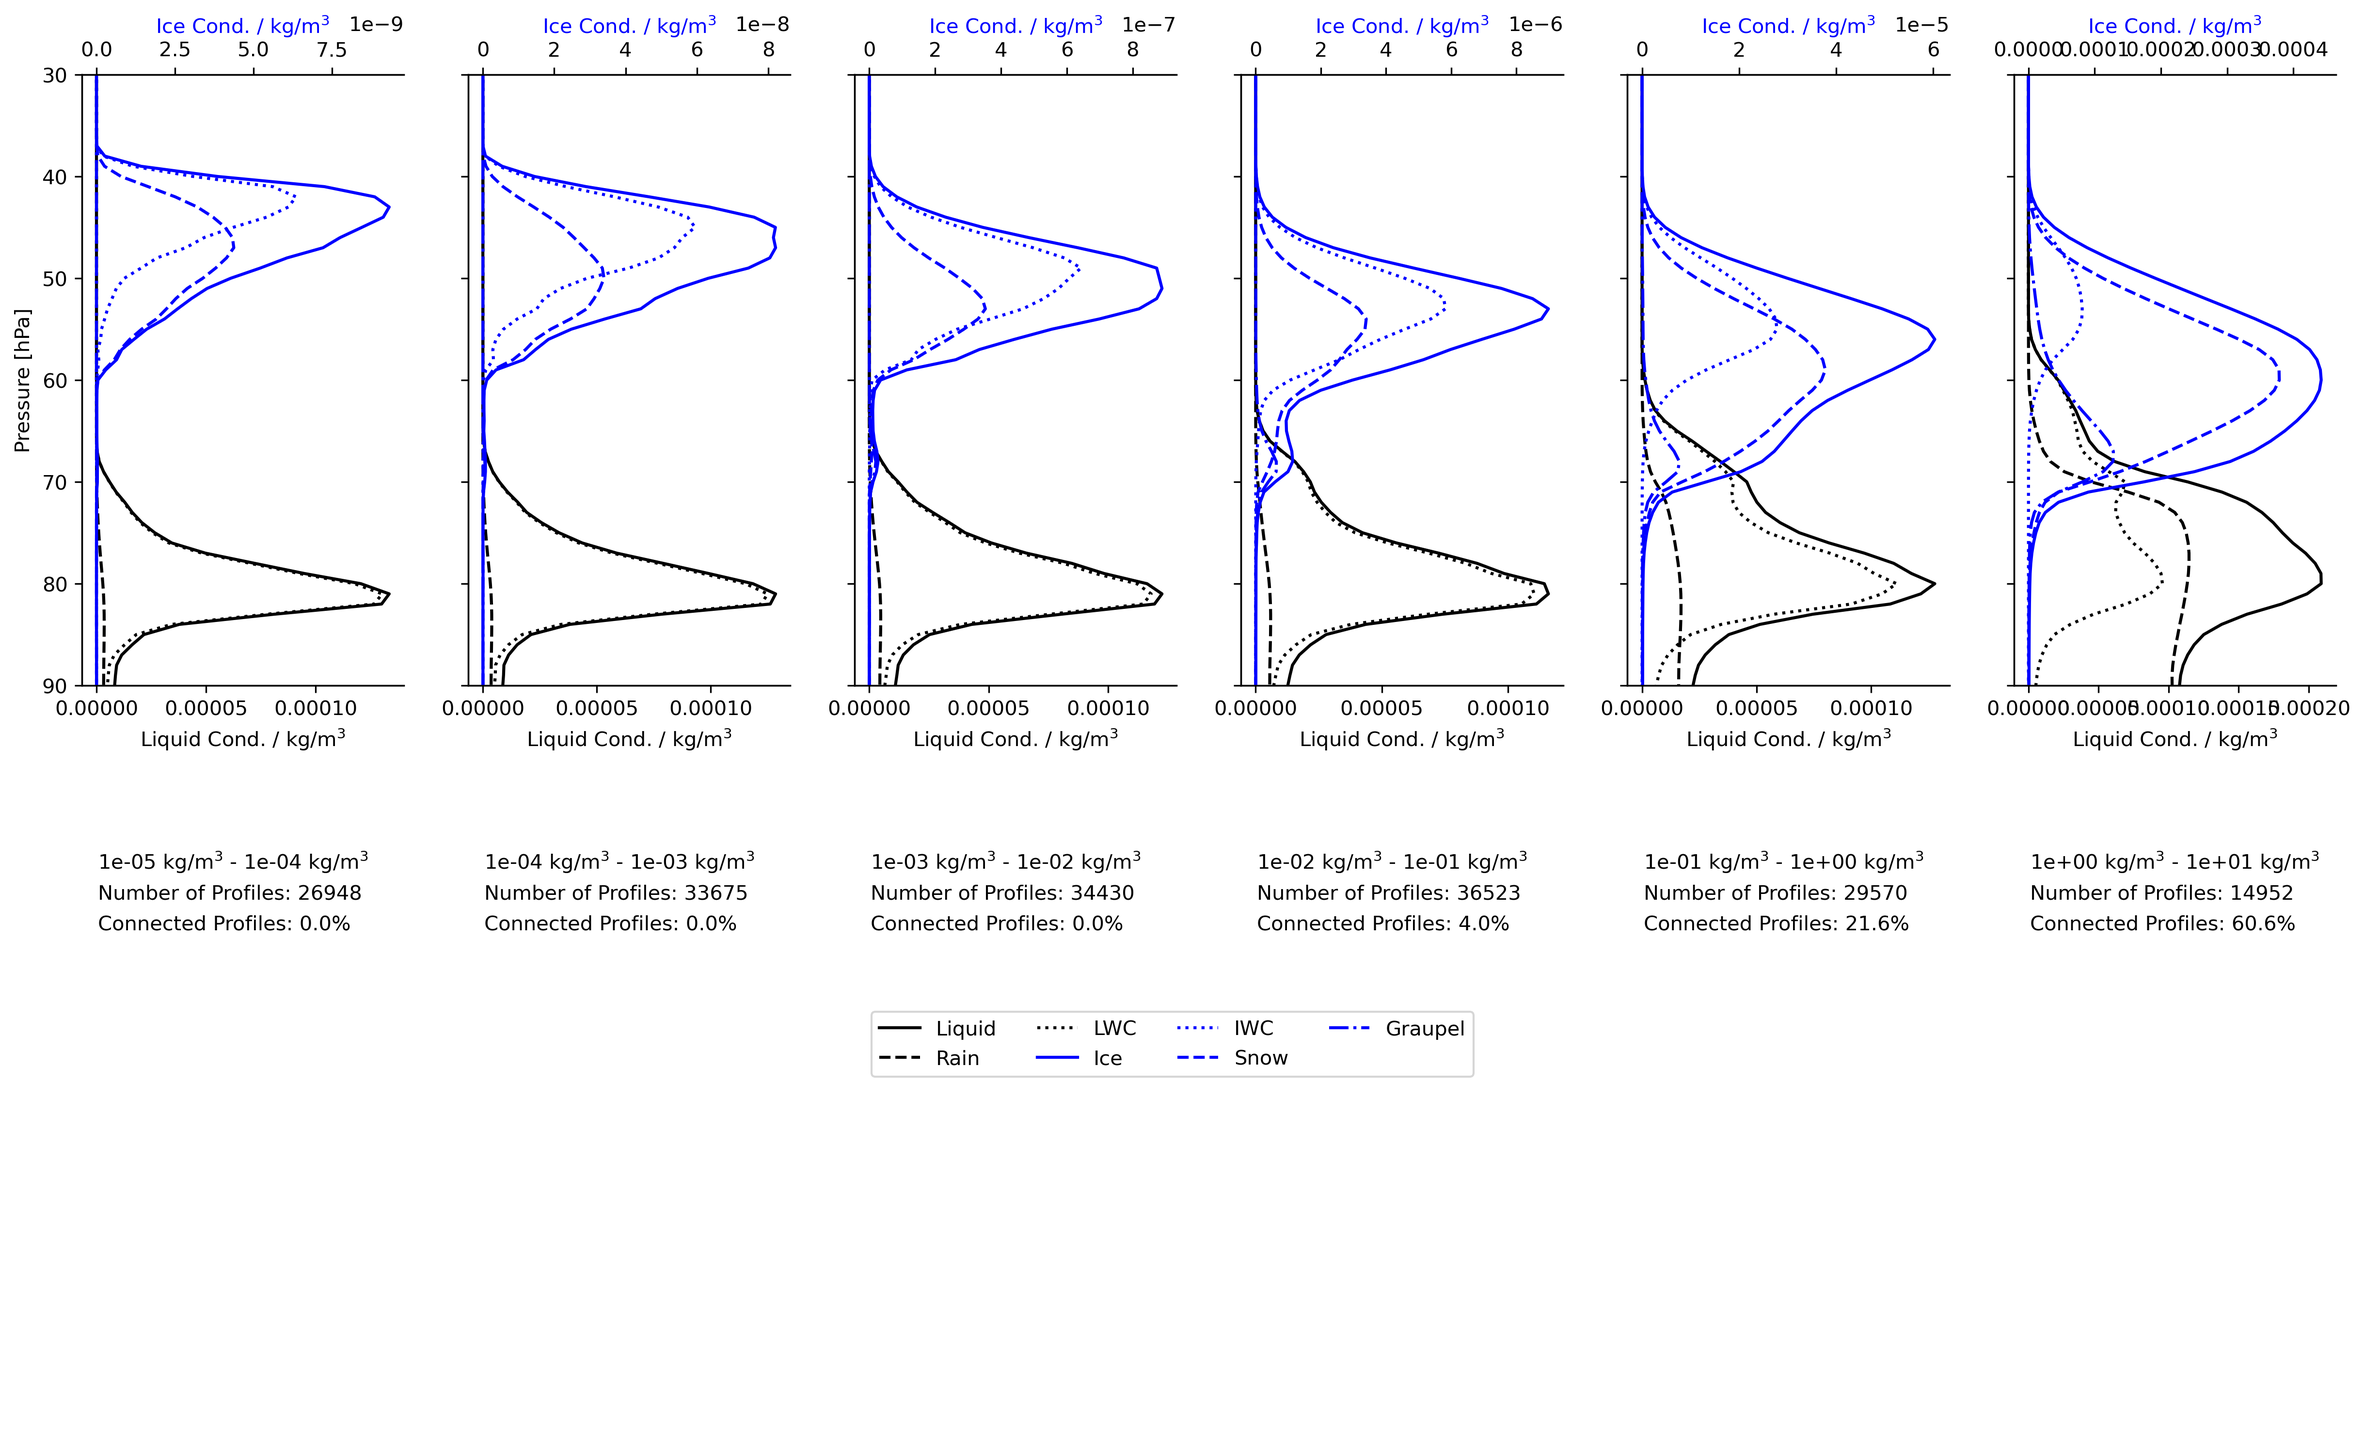
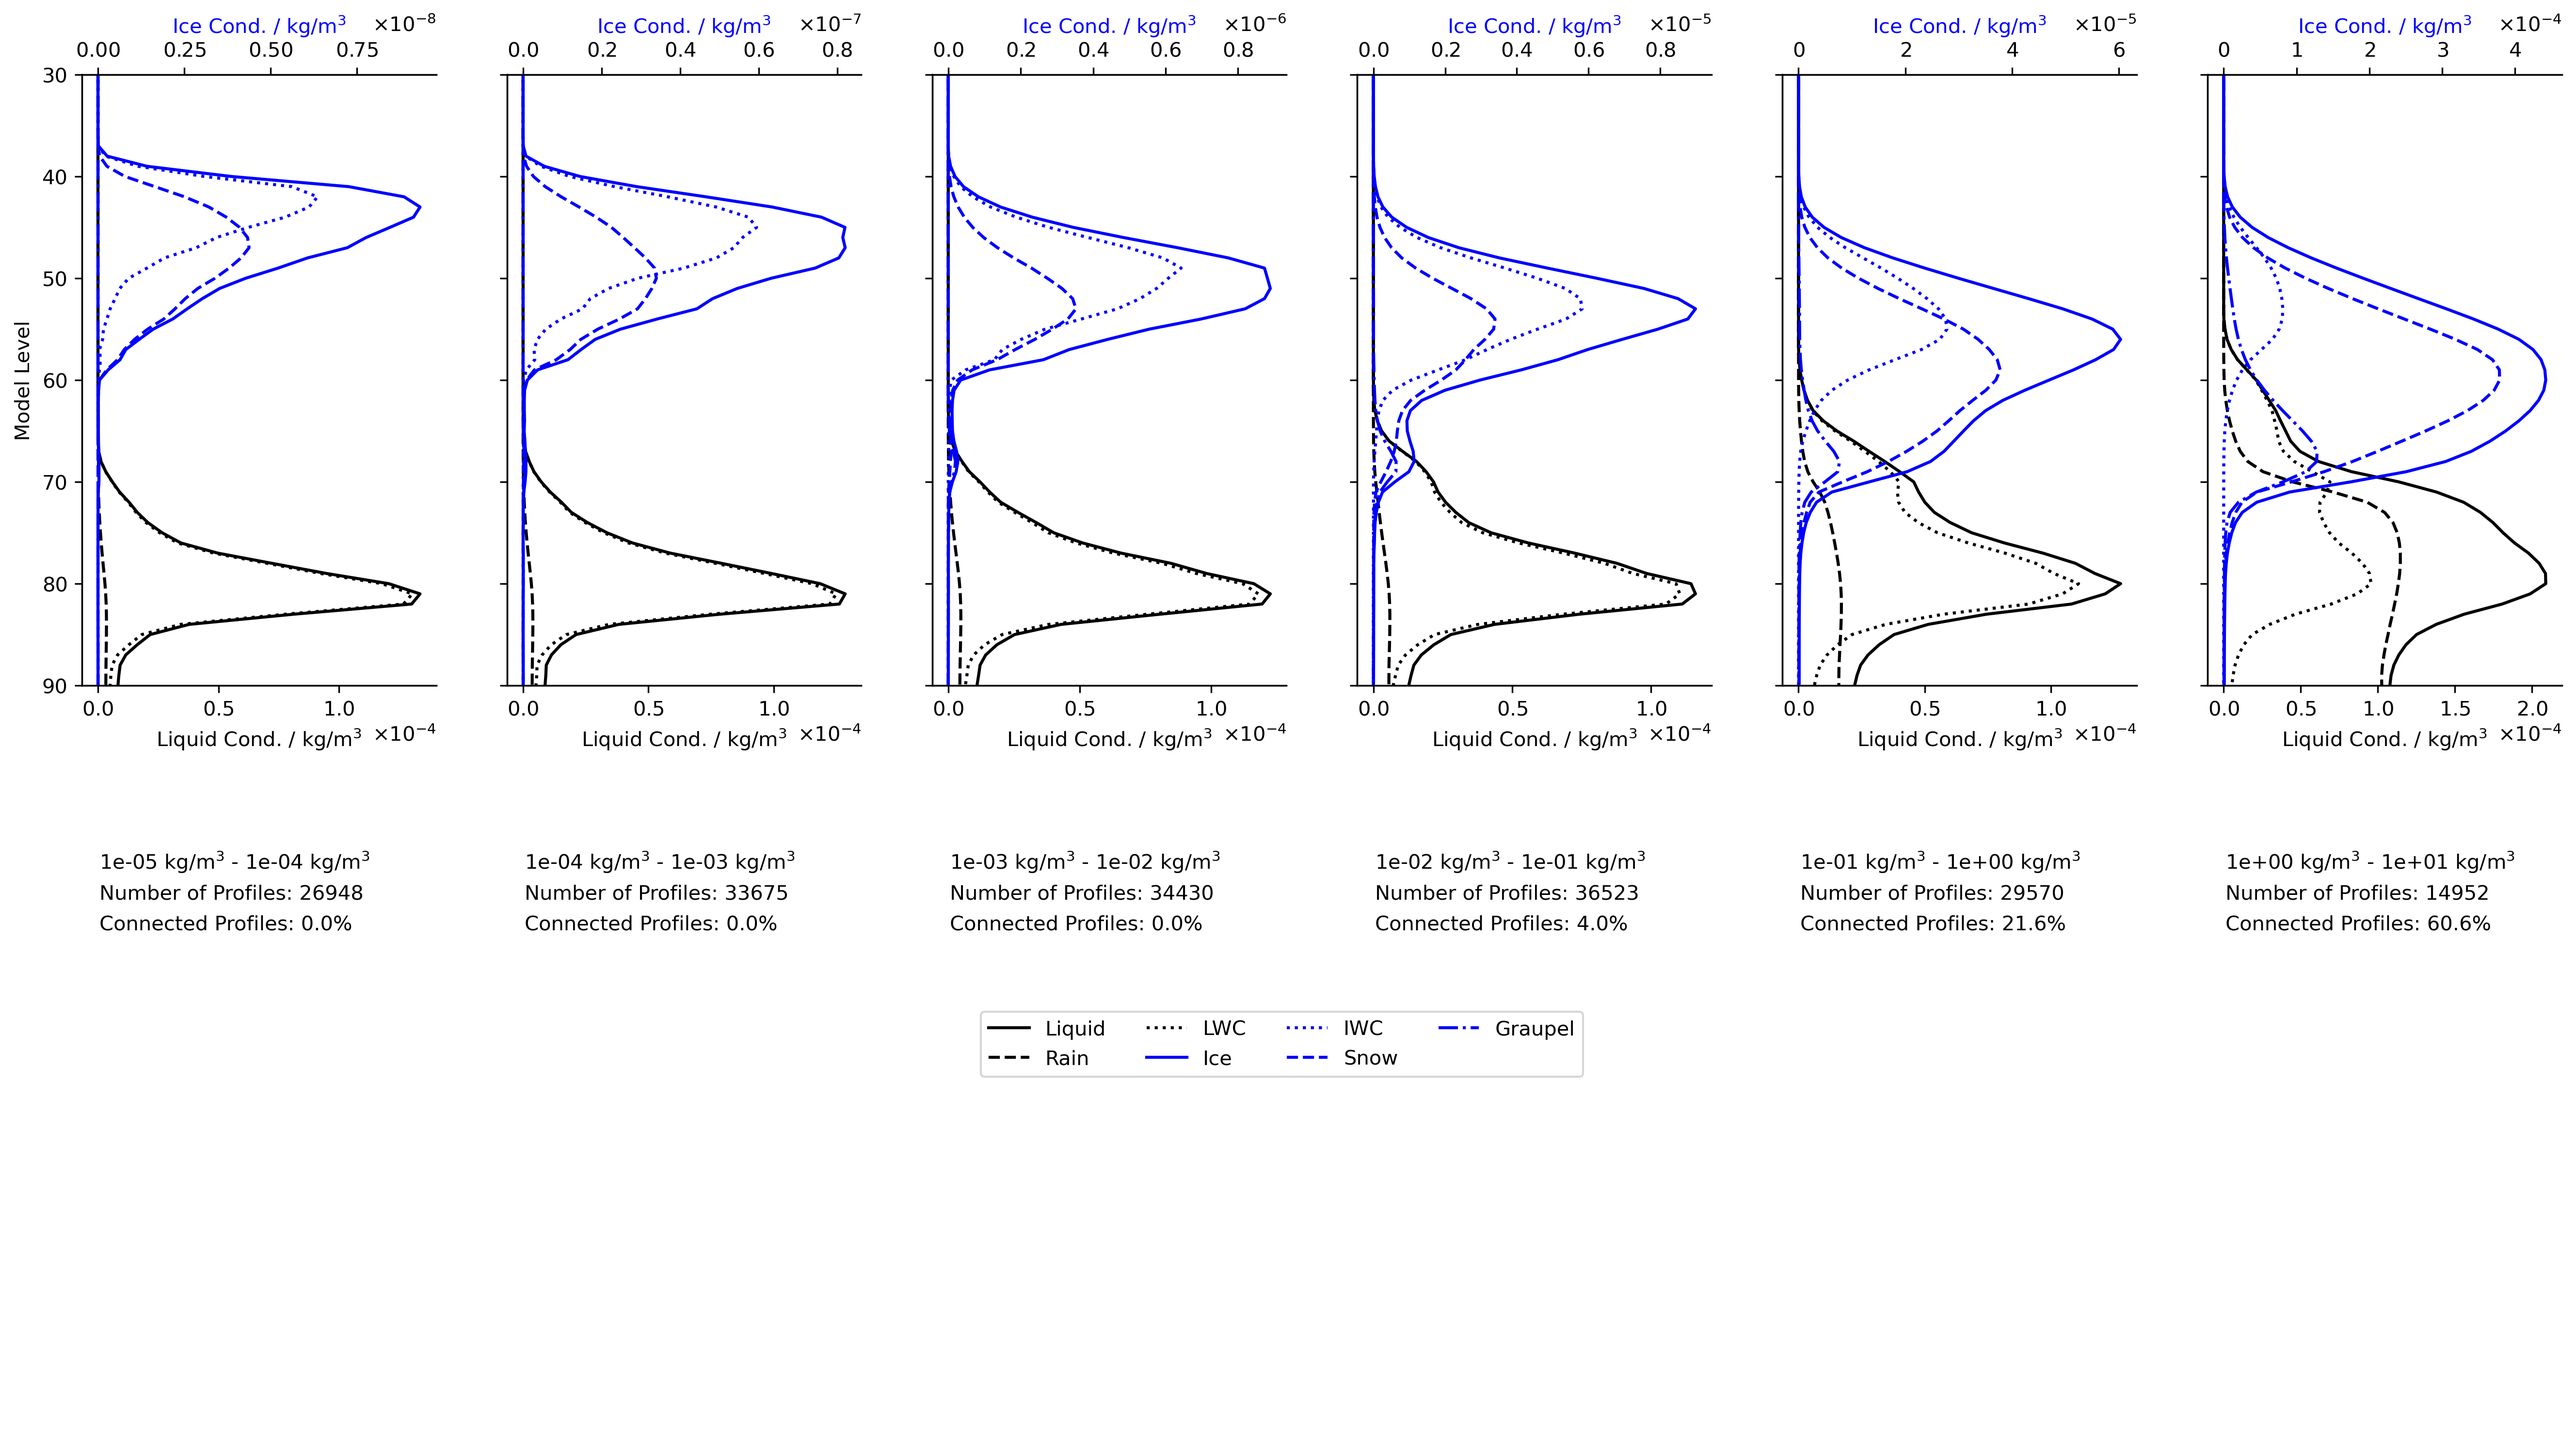
figures updated

diff --git a/src/plot_functions.py b/src/plot_functions.py
@@ -621,13 +621,16 @@ def plot_connectedness(sample, mask, liq_cld_cond, ice_cld_cond, mode="icon"):
     - axes: The matplotlib axes object.
     """
 
-    fig, axes = plt.subplots(2, 6, figsize=(20, 12), sharey="row")
+    fig, axes = plt.subplots(2, 6, figsize=(22, 12), sharey="row")
     iwp_bins = np.logspace(-5, 1, 7)
+    formatter = ScalarFormatter(useMathText=True)
+    formatter.set_powerlimits((-1, 2))
 
     for i in range(6):
         ax2 = plot_condensate(
             sample, axes[0, i], iwp_bins[i], iwp_bins[i + 1], mask, liq_cld_cond, ice_cld_cond, mode
         )
+        ax2.xaxis.set_major_formatter(formatter)
         plot_num_connected(sample, axes[1, i], iwp_bins[i], iwp_bins[i + 1], mask)
 
     handles, labels = axes[0, 0].get_legend_handles_labels()
@@ -643,8 +646,6 @@ def plot_connectedness(sample, mask, liq_cld_cond, ice_cld_cond, mode="icon"):
     
     # Set the x-axis formatter
     for ax in axes.flatten():
-        formatter = ScalarFormatter(useMathText=True)
-        formatter.set_powerlimits((-1, 2))
         ax.xaxis.set_major_formatter(formatter)
 
     return fig, axes
